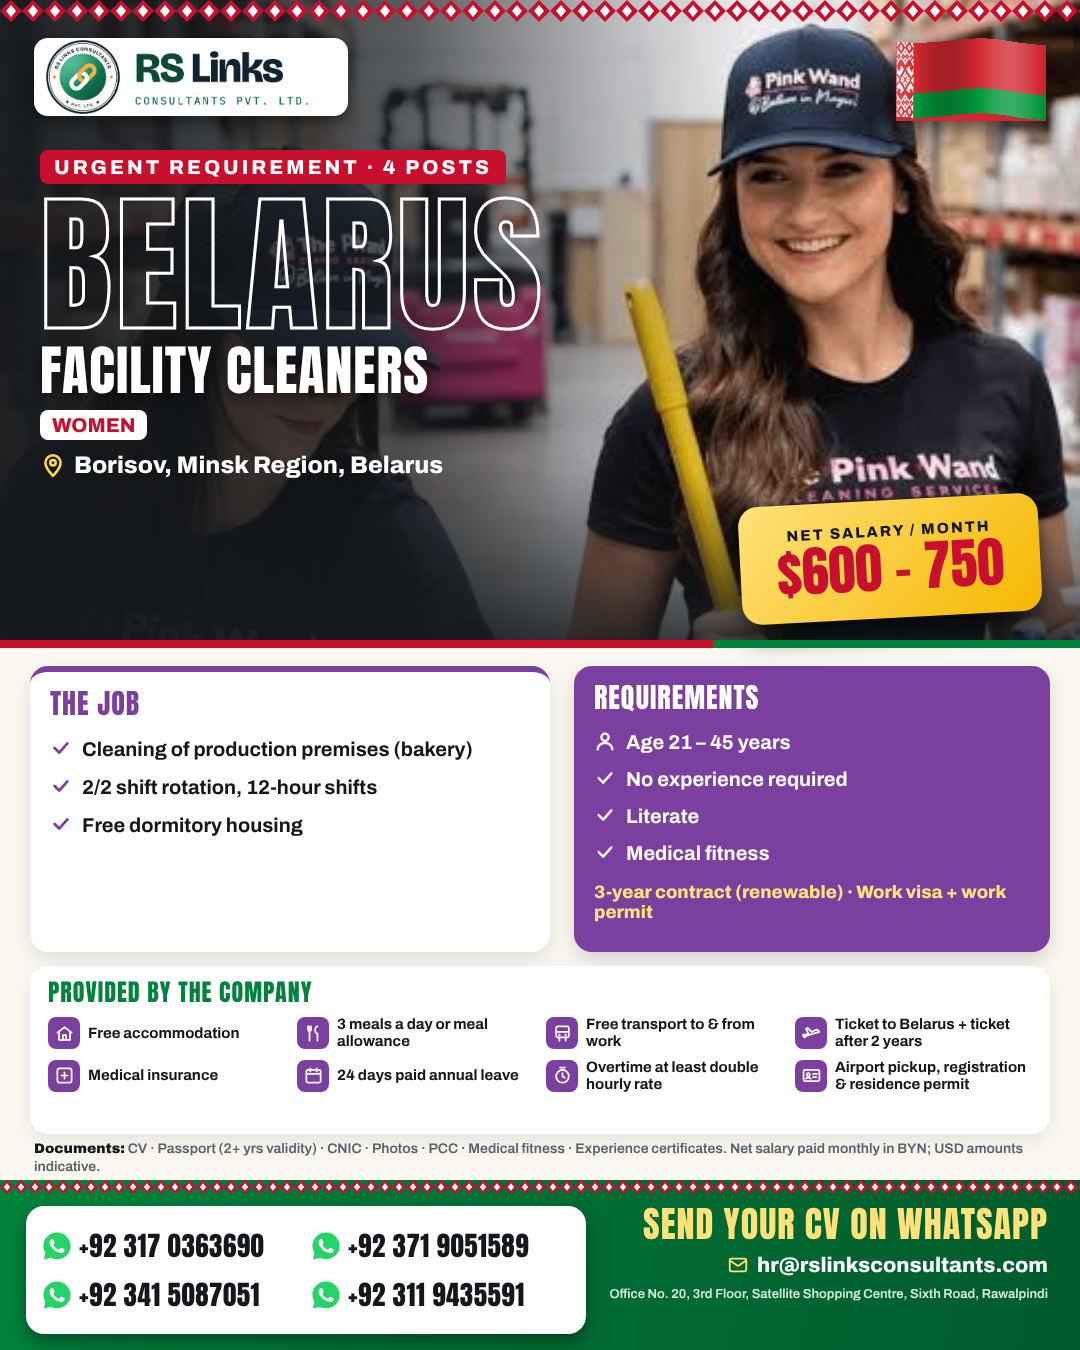
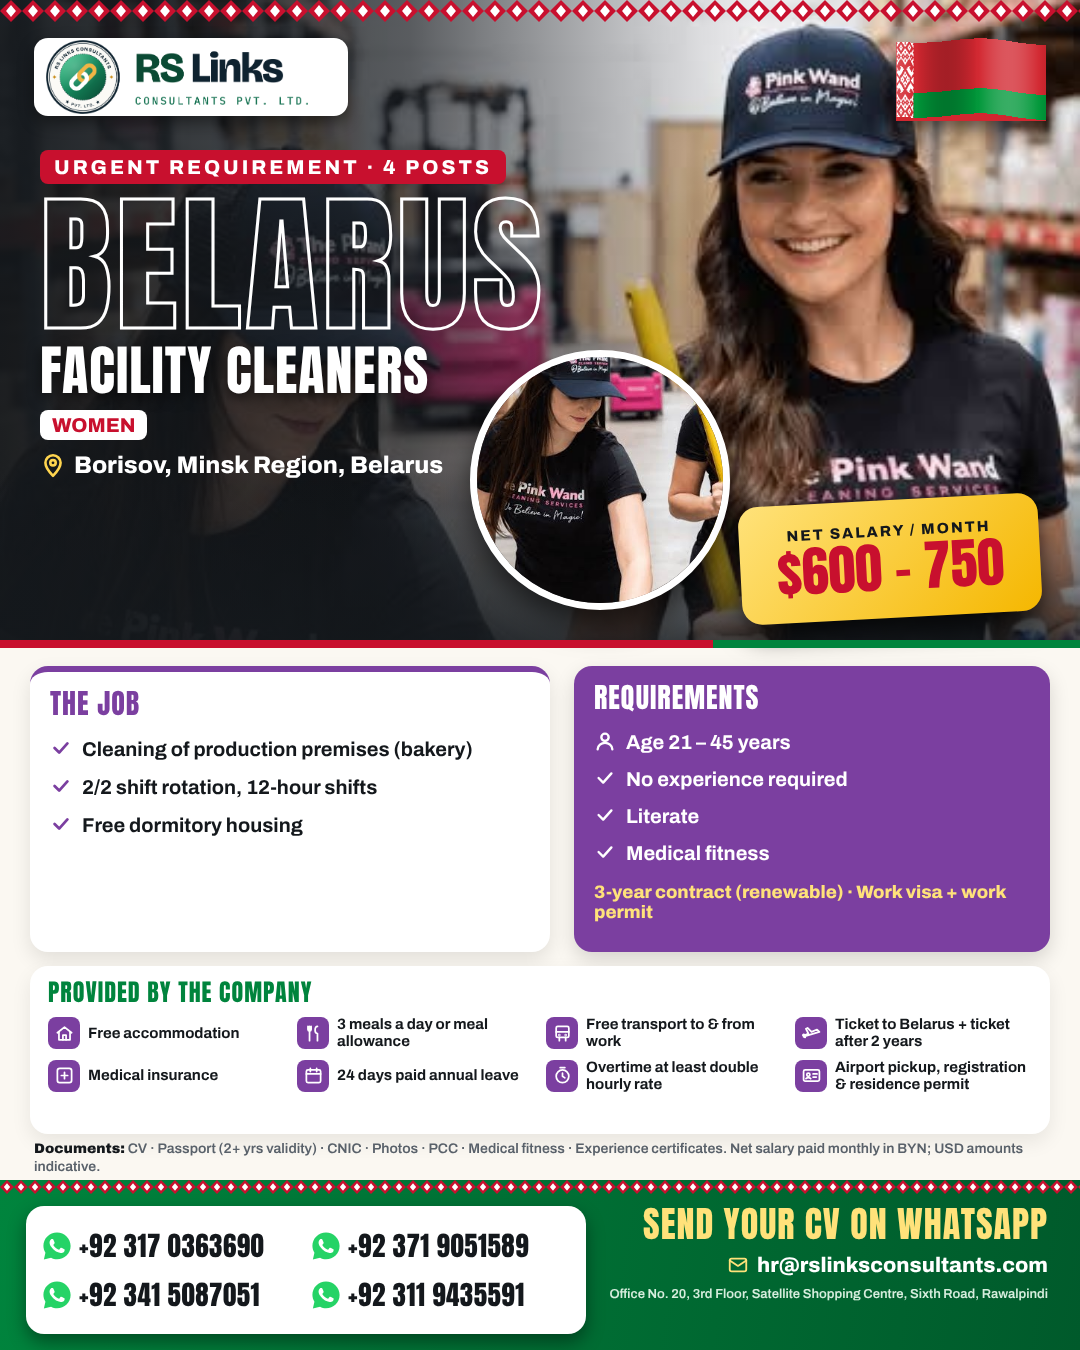
Belarus cleaners ad: add second woman cleaner as round inset
Claude-Session: https://claude.ai/code/session_01YJ5ofgU8QCiWTsYR9pvXG4

Changed region(s): [[0.4278, 0.2489, 0.7028, 0.4667]]

diff --git a/src/belarus_roles.py b/src/belarus_roles.py
@@ -43,7 +43,7 @@ ROLES = [
     dict(slug="bakery", inset="by_woman_production", title="BAKERY PRODUCTION WORKERS", who="Men &amp; Women", posts=30, city="Borisov, Minsk Region", sal="700 – 850",
          accent="#D9822B", duties=["General work in bakery production", "2/2 shift rotation, 12-hour shifts", "Free dormitory housing"],
          reqs=["Age 21 – 45 years", "No experience required", "Literate", "Medical fitness"]),
-    dict(slug="cleaners", pos="center 6%", title="FACILITY CLEANERS", who="Women", posts=4, city="Borisov, Minsk Region", sal="600 – 750",
+    dict(slug="cleaners", pos="center 6%", inset="by_cleaner2", inset_css="top:350px;left:470px;width:260px;height:260px", inset_pos="center center", title="FACILITY CLEANERS", who="Women", posts=4, city="Borisov, Minsk Region", sal="600 – 750",
          accent="#7B3FA0", duties=["Cleaning of production premises (bakery)", "2/2 shift rotation, 12-hour shifts", "Free dormitory housing"],
          reqs=["Age 21 – 45 years", "No experience required", "Literate", "Medical fitness"]),
 ]
@@ -70,8 +70,10 @@ def build(r, i, uri):
     flip = r.get("flip", i % 2 == 1)          # alternate the photo / title side unless the photo needs one
     side, other = ("right", "left") if flip else ("left", "right")
     grad = f"linear-gradient({'270' if flip else '90'}deg,{INK}F2 0%,{INK}B0 38%,{INK}00 70%)"
-    inset = (f"<div class='abs' style='top:150px;{other}:50px;width:290px;height:290px;border-radius:50%;overflow:hidden;border:7px solid #fff;box-shadow:0 14px 30px #000a'>"
-             f"<img src='{(PHOTOS / (r['inset'] + '.jpg')).as_uri()}' style='width:100%;height:100%;object-fit:cover;object-position:center 20%'></div>") if r.get('inset') else ''
+    ics = r.get('inset_css', f'top:150px;{other}:50px;width:290px;height:290px')
+    ipos = r.get('inset_pos', 'center 20%')
+    inset = (f"<div class='abs' style='{ics};border-radius:50%;overflow:hidden;border:7px solid #fff;box-shadow:0 14px 30px #000a'>"
+             f"<img src='{(PHOTOS / (r['inset'] + '.jpg')).as_uri()}' style='width:100%;height:100%;object-fit:cover;object-position:{ipos}'></div>") if r.get('inset') else ''
     who = (f"<span style='display:inline-block;background:#fff;color:{RED};font:800 20px Archivo;border-radius:8px;padding:4px 12px;margin-top:12px'>{r['who'].upper()}</span>"
            if r["who"] else "")
     duty_li = "".join(f"<div style='display:flex;gap:10px;align-items:flex-start;margin-top:13px'>{icon('check', 22, A, 3)}<span style='font:700 20px Archivo;color:{INK};line-height:1.25'>{d}</span></div>" for d in r["duties"])
